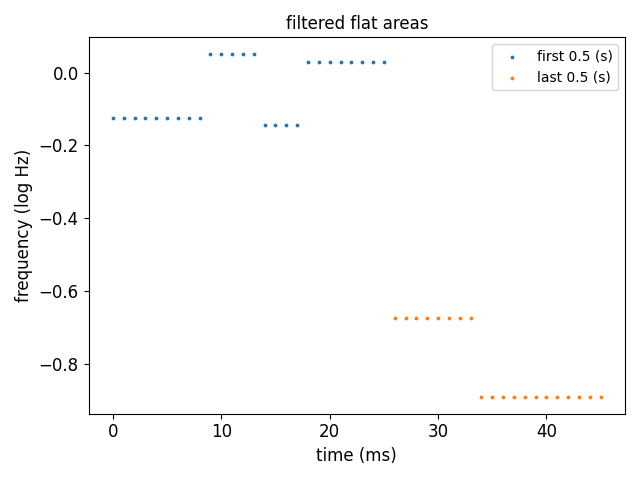
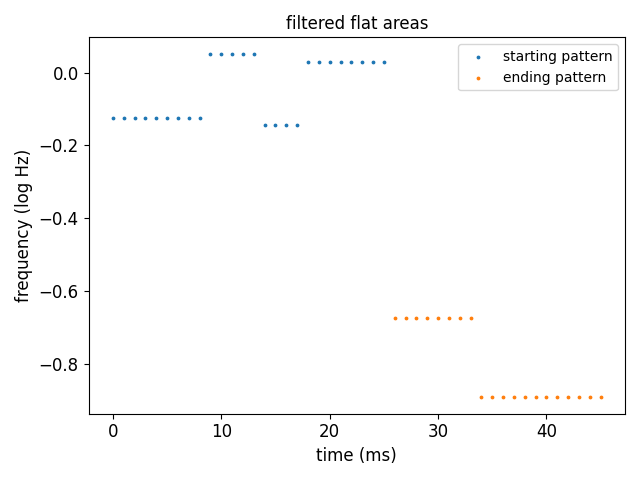
s

Changed region(s): [[0.7812, 0.0938, 0.9688, 0.1875]]

diff --git a/transform_data/plotting_transformation.py b/transform_data/plotting_transformation.py
@@ -75,8 +75,8 @@ def plot_flat(allData,boundary,N=0):
     plt.rcParams.update(parameters)
     
     fig = plt.figure()
-    frame = fig.add_subplot(2,1,1)
-    frame2 = fig.add_subplot(2,1,2)
+    # frame = fig.add_subplot(2,1,1)
+    frame2 = fig.add_subplot(1,1,1)
     halfway = int(len(data)/2)
     time = np.arange(len(data))/len(data)
     flatL = determine_flat_areas(data[:halfway],time[:halfway],boundary)
@@ -84,21 +84,21 @@ def plot_flat(allData,boundary,N=0):
     newFlatL = flat_areas2(flatL,2,0.05)
     newFlatR = flat_areas2(flatR,2,0.05)
     size = 3
-    frame.scatter(range(len(flatL)),flatL,s=size,label="first 0.5 (s)")
-    frame.scatter(range(len(flatL),len(flatL)+len(flatR)),flatR,s=size,label="last 0.5 (s)")
-    frame2.scatter(range(len(newFlatL)),newFlatL,s=size,label="first 0.5 (s)")
-    frame2.scatter(range(len(newFlatL),len(newFlatL)+len(newFlatR)),newFlatR,s=size,label="last 0.5 (s)")
+    # frame.scatter(range(len(flatL)),flatL,s=size,label="starting pattern")
+    # frame.scatter(range(len(flatL),len(flatL)+len(flatR)),flatR,s=size,label="ending pattern")
+    frame2.scatter(range(len(newFlatL)),newFlatL,s=size,label="starting pattern")
+    frame2.scatter(range(len(newFlatL),len(newFlatL)+len(newFlatR)),newFlatR,s=size,label="ending pattern")
     fsize= 12
-    frame.set_xlabel("time (ms)",fontsize=fsize)
-    frame.set_ylabel("frequency (log Hz)",fontsize=fsize)
-    frame.set_title("flat areas")
-    frame.set_title("(a)")
+    # frame.set_xlabel("time (ms)",fontsize=fsize)
+    # frame.set_ylabel("frequency (log Hz)",fontsize=fsize)
+    # frame.set_title("flat areas")
+    # frame.set_title("(a)")
     frame2.set_xlabel("time (ms)",fontsize=fsize)
     frame2.set_ylabel("frequency (log Hz)",fontsize=fsize)
-    frame2.set_title("(b)")
+    frame2.set_title("filtered flat areas")
     # frame2.set_title("")
 
-    frame.legend()
+    # frame.legend()
     frame2.legend()
     fig.tight_layout()
     plt.show()

diff --git a/pipeline.py b/pipeline.py
@@ -158,11 +158,11 @@ if __name__ == "__main__":
     
     
     # preprocessing()
-    # fileName = "data"+"/pitch_data_questions_processed_pitch.txt"
-    # pitch = tfd.read_file2(os.path.abspath(os.path.join(fileName)),True)
-    # # tfd.plot_flat(pitch,2.4,1)
+    fileName = "data"+"/pitch_data_questions_processed_pitch.txt"
+    pitch = tfd.read_file2(os.path.abspath(os.path.join(fileName)),True)
+    tfd.plot_flat(pitch,2.4,1)
     # tfd.plot_smooth(pitch,2.4)
-    trd.weight_bar()
+    # trd.weight_bar()
     
     # fileName = "data"+"/pitch_data_questions_processed_pitch.txt"
     # fileName2 = "data"+"/pitch_data_questions_pitch.txt"
